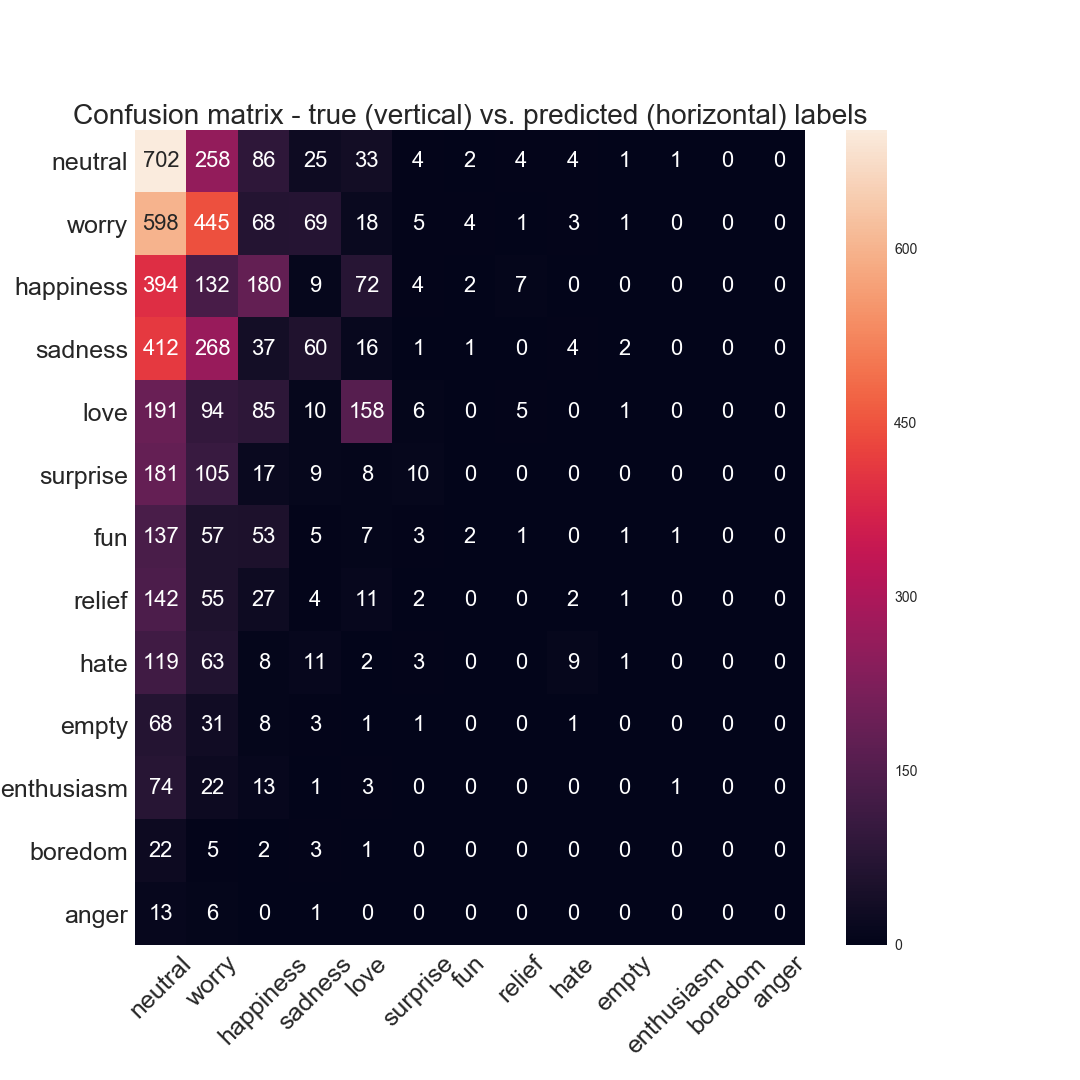
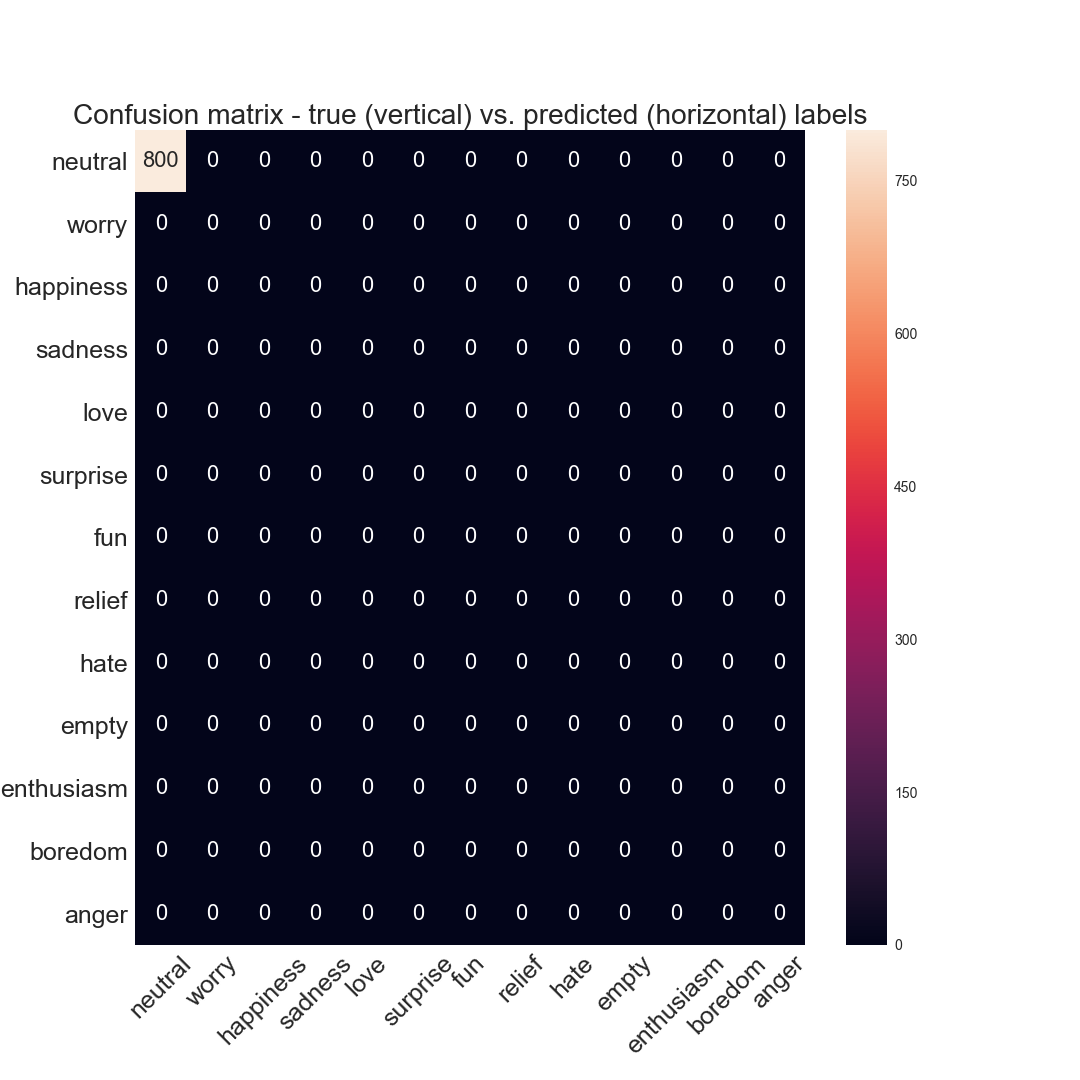
Code for final test runs

diff --git a/main.py b/main.py
@@ -165,11 +165,49 @@ def train(contents, labels, k, kernel):
     #bert_model.bert_ops(inputs_train, inputs_test, labels_train, labels_test, batch_size = 32, epochs = 5)
     #print("Mean accuracy KNN:", np.mean(total_acc_knn))
     #print("Standard deviation accuracy KNN:", statistics.stdev(total_acc_knn))
+
+    
     print("Mean accuracy SVM:", np.mean(total_acc_svm))
     print("Standard deviation accuracy SVM:", statistics.stdev(total_acc_svm))
     # Print the confusion matrix of the best fold
     # print_confusion_matrix(best_labels, best_prediction)
 
+def test(inputs_train, labels_train, inputs_test, labels_test, k, kernel, vectorizer):
+    if vectorizer == 'count':
+        vectorizer = CountVectorizer(stop_words='english')
+    if vectorizer == 'tfidf':
+        vectorizer = TfidfVectorizer()
+    
+    print("Start vectorizing")    
+    print("Vectorizer is", vectorizer)    
+    inputs_train = vectorizer.fit_transform(inputs_train)
+    inputs_test = vectorizer.transform(inputs_test)      
+    
+    print("Done vectorizing")
+
+    # First train on all train data with optimal settings
+    predictionSVM = SVM(inputs_train, labels_train, inputs_test, kernel)
+    predictionKNN = kNN(inputs_train, labels_train, inputs_test, k)
+        
+    total = 0
+    correct_svm = 0
+    correct_knn = 0
+    for i in range(len(labels_test)):
+        if labels_test[i] == predictionKNN[i]:
+            correct_knn += 1
+        if labels_test[i] == predictionSVM[i]:
+            correct_svm += 1
+        total += 1   
+    acc_svm = correct_svm / total
+    acc_knn = correct_knn / total
+    
+    print("accuracy KNN", acc_knn) 
+    print_confusion_matrix(labels_test, predictionKNN)   
+    print("accuracy SVM", acc_svm)
+    print_confusion_matrix(labels_test, predictionSVM)   
+
+     
+        
 def main():
     data = load_data("data/train.csv")
     #data = data.dropna(axis = 0)
@@ -179,7 +217,7 @@ def main():
     labels_merged = []
 
     """ Change 13 -> 3 classes""" 
-    #labels_merged = changeLabelClasses(labels)
+    labels_merged = changeLabelClasses(labels)
     
     """ Word2Vec embeddings (uncomment this and comment out the vectorizer to use it) """ 
     #contents = word2vecEmbedding(contents)
@@ -188,16 +226,27 @@ def main():
     """wordpiece embeddings (uncomment this and comment out the vectorizer to use it)"""
     #for feature_size in (50,60,70):
         # 40: 0.239 (sd 0.0054)
-    feature_size = 40
-    contents, labels = wordpiece_tokens(contents,labels,feature_size)
-    sc = StandardScaler()
-    contents = sc.fit_transform(contents)
+    #feature_size = 40
+    #contents, labels = wordpiece_tokens(contents,labels,feature_size)
+    #sc = StandardScaler()
+    #contents = sc.fit_transform(contents)
     #    train(contents, labels, 15, "rbf")
 	
-    for kernel in ("linear", "poly", "rbf"):
-        print("Kernel is ", kernel)
-        train(contents, labels, 15, kernel)
-        print('\n')
+    #for kernel in ("linear", "poly", "rbf"):
+    #    print("Kernel is ", kernel)
+    #    train(contents, labels, 15, kernel)
+    #    print('\n')
+    #train(contents, labels, 15, "rbf")
+    
+    test_data = load_data("data/test.csv")
+    test_contents = test_data["content"]
+    test_labels = test_data["sentiment"]
+    
+    test_labels_merged = changeLabelClasses(test_labels) 
+    
+    for vect in ("count", "tfidf"):
+        test(contents, labels_merged, test_contents, test_labels_merged, 15, "rbf", vect)
+    
 
 if __name__ == "__main__":
 	main()
